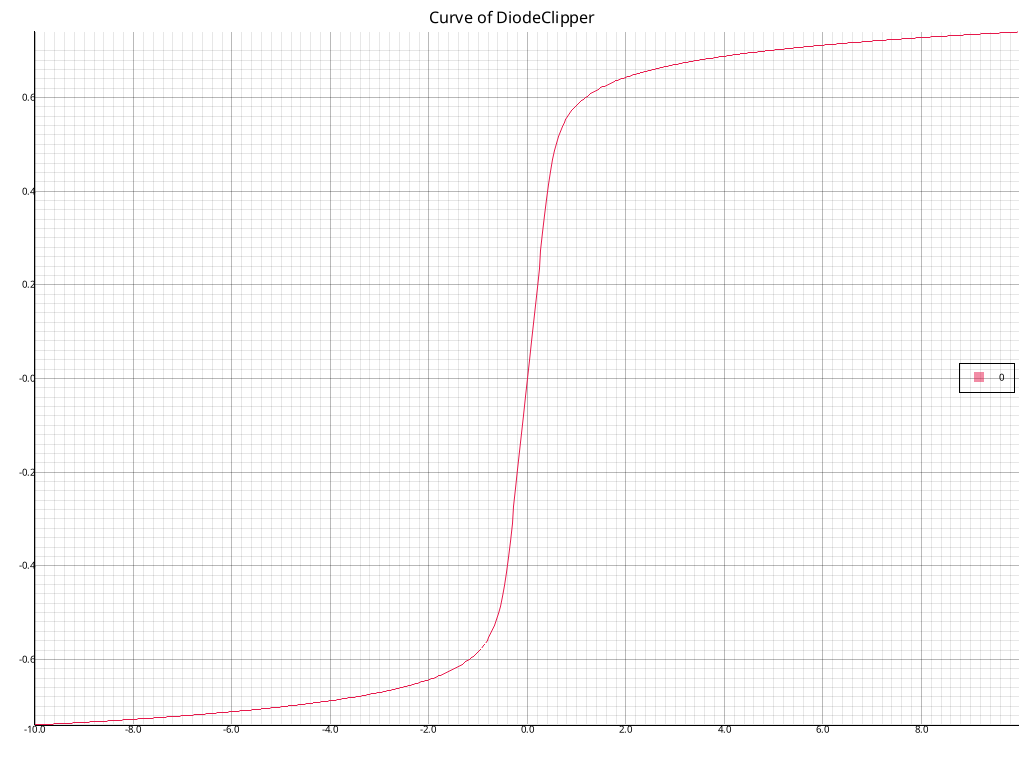
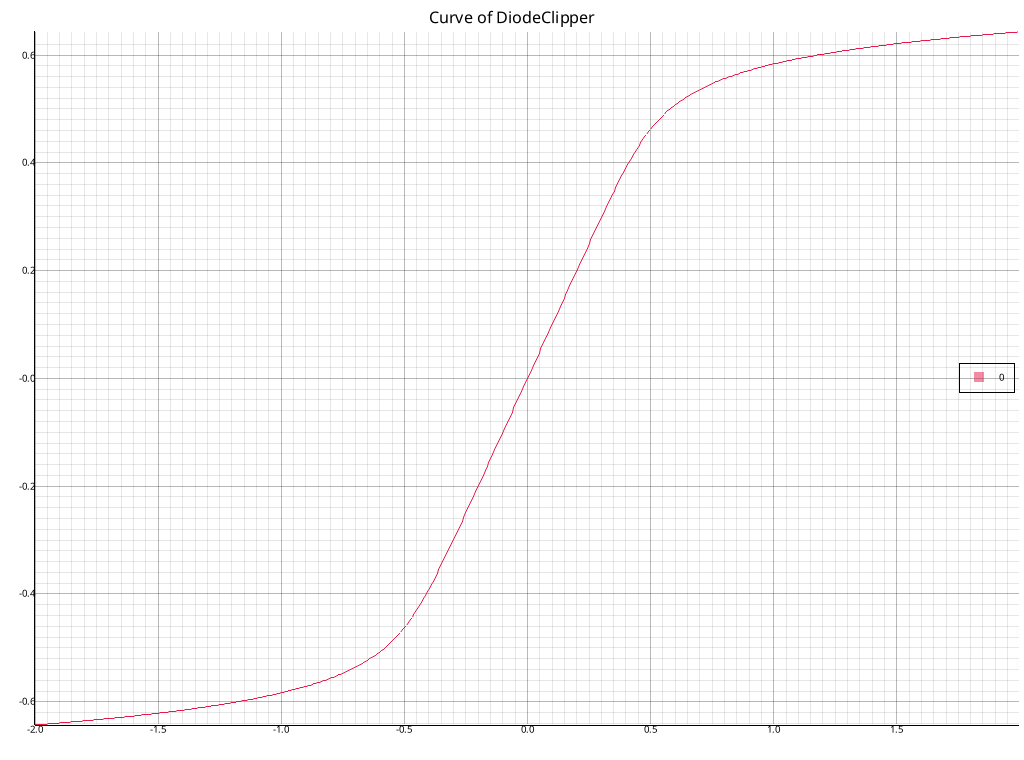
Remove unused

Changed region(s): [[0.0312, 0.0303, 1.0, 0.9684]]

diff --git a/src/diode/mod.rs b/src/diode/mod.rs
@@ -1,4 +1,4 @@
-use core::{f32, marker::PhantomData};
+use core::marker::PhantomData;
 
 use num::Float;
 use real_time_fir_iir_filters::f;
@@ -53,18 +53,18 @@ mod test
 {
     use core::ops::Range;
 
-    use crate::{diodes::Diode1N4148, tubes::{Tube12AU7, Tube6550, Tube6DJ8, Tube6L6CG, TubeKT88}};
+    use crate::diodes::Diode1N4148;
 
     use super::*;
 
     #[test]
     fn it_works()
     {
-        const RANGE: Range<f32> = -10.0..10.0;
+        const RANGE: Range<f32> = -2.0..2.0;
         
         let r_d = 1e3;
         
-        let mut t0 = DiodeClipper::<_, Diode1N4148>::new(r_d);
+        let t0 = DiodeClipper::<_, Diode1N4148>::new(r_d);
 
         crate::tests::plot(
             "DiodeClipper",

diff --git a/src/lib.rs b/src/lib.rs
@@ -72,8 +72,6 @@ where
     // (two + pexpminusw*(two - minusw))
     (two - minusw*four + minusw2 - minusw3/xexpminusw)
     / ((two - minusw*two + minusw2)/xexpminusw + two - minusw)
-    /*(two - four*minusw - minusw2 + minusw3/xexpminusw)
-        / ((two - minusw*two + minusw2)/xexpminusw + two - minusw)*/
 }
 
 fn change<F>(rate: F) -> F
